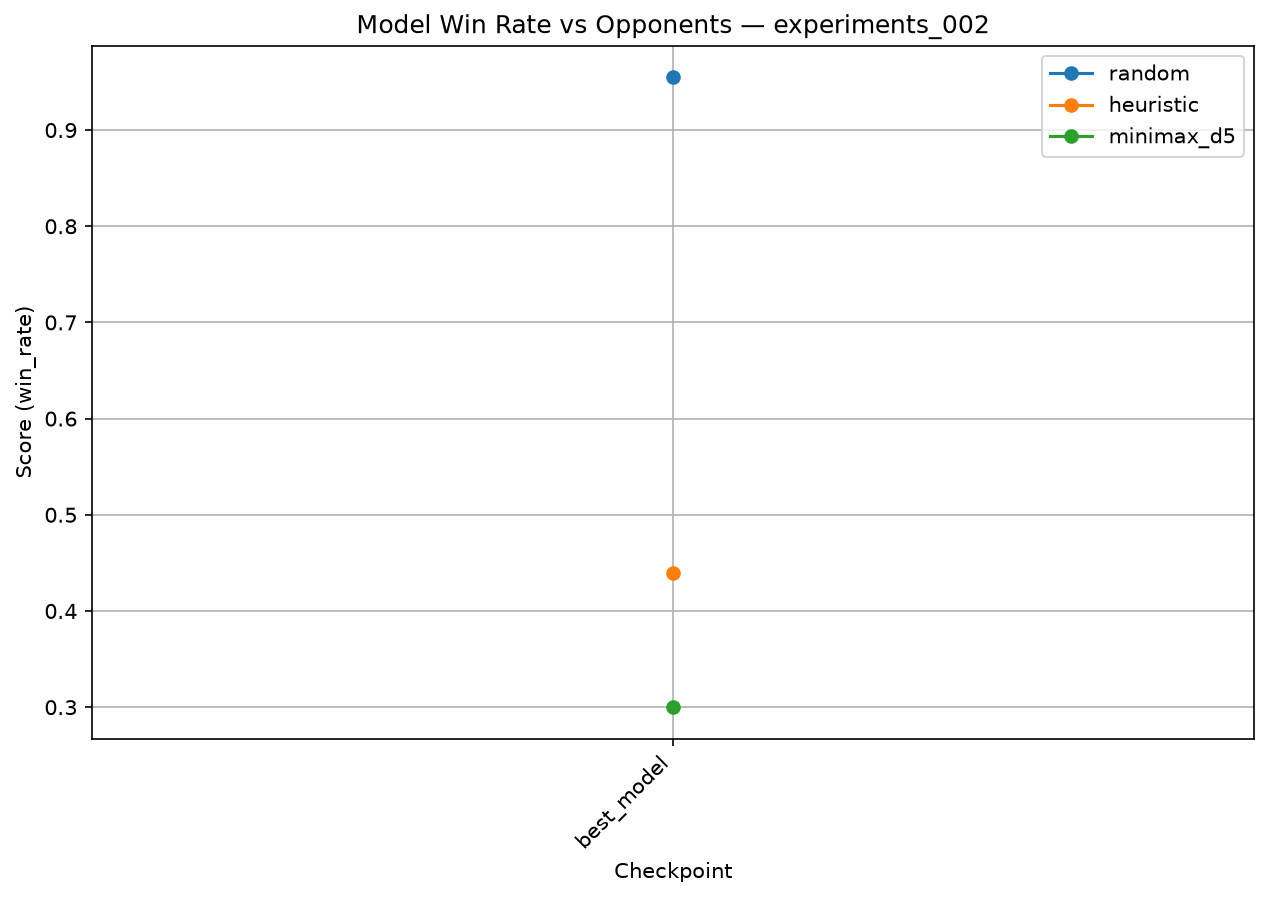
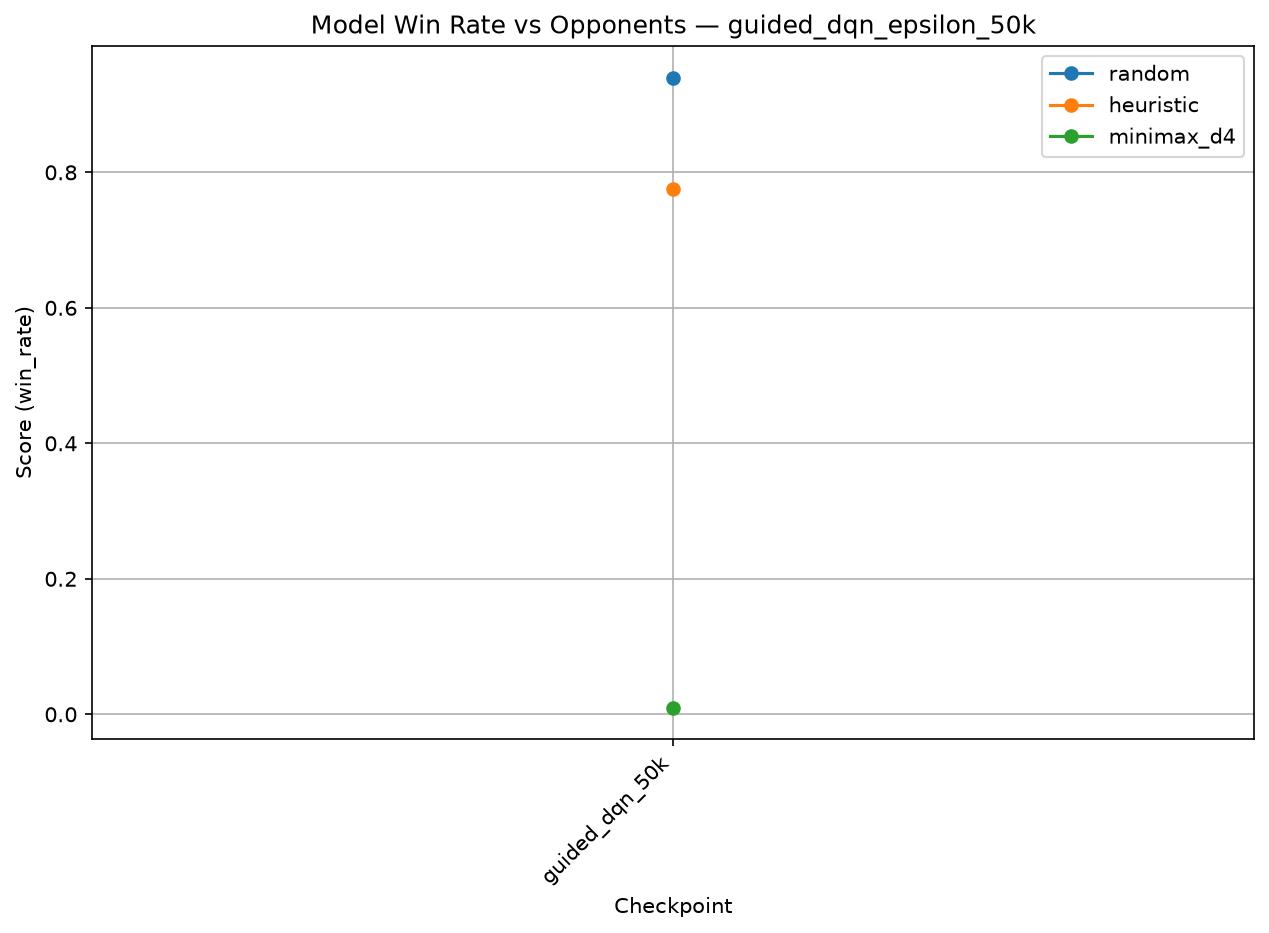
Here's what was changed: train_vs_minimax.py Added max_random_training_plies: int = 4 parameter to train() Inserted the random opening logic at train_vs_minimax.py:311-323 — each episode picks N ∈ 1, max_random_training_plies, then plays 2N random moves (alternating both players) before the real gam

diff --git a/all_in_clean/train_vs_minimax.py b/all_in_clean/train_vs_minimax.py
@@ -198,6 +198,8 @@ def train(
     save_every: int = 500,
     seed: int = 42,
     profile: bool = False,
+    # --- random opening plies (training diversity) ---
+    max_random_training_plies: int = 4,
     # --- diagnostics ---
     record_game_eps: str = "1200,3000",
     n_record_games: int = 3,
@@ -305,6 +307,20 @@ def train(
 
         obs = env.reset()
         done = False
+
+        # Random opening plies: pick N in [1, max_random_training_plies]
+        # and play 2*N random moves (one per player per ply) so both the
+        # agent and the opponent start from a diverse board position.
+        if max_random_training_plies > 0:
+            n_plies = random.randint(1, max_random_training_plies)
+            for _ in range(2 * n_plies):
+                if done:
+                    break
+                legal = obs["legal_actions"]
+                pass_action = obs.get("pass_action", board_size * board_size)
+                non_pass = [a for a in legal if a != pass_action]
+                action = random.choice(non_pass if non_pass else legal)
+                obs, _, done, _ = env.step(action)
 
         if opponent_type == "curriculum":
             cur_opp_type = _choose_opponent_from_curriculum(

diff --git a/all_in_clean/advanced_training.py b/all_in_clean/advanced_training.py
@@ -120,7 +120,7 @@ def _parse_args() -> argparse.Namespace:
     tg.add_argument("--load_model_path",     type=str,   default=None)
     tg.add_argument("--board_size",          type=int,   default=6)
     tg.add_argument("--num_episodes",        type=int,   default=200_000)
-    tg.add_argument("--minimax_max_depth",   type=int,   default=5)
+    tg.add_argument("--minimax_max_depth",   type=int,   default=3)
     tg.add_argument("--minimax_time_limit",  type=float, default=1.0)
     tg.add_argument("--final_minimax_weight", type=float, default=0.60)
     tg.add_argument("--minimax_start_progress", type=float, default=0.05)
@@ -144,6 +144,9 @@ def _parse_args() -> argparse.Namespace:
     tg.add_argument("--no_double_dqn",       action="store_true")
     tg.add_argument("--max_minutes",         type=float, default=1000000)
 
+    tg.add_argument("--max-random-training-plies", type=int, default=4,
+                    help="Max random opening plies per player per episode. "
+                         "0 disables random openings. (default: 4)")
     tg.add_argument("--eval_every",          type=int,   default=1000)
     tg.add_argument("--save_every",          type=int,   default=1000)
     tg.add_argument("--print_every",         type=int,   default=50)
@@ -239,6 +242,7 @@ def main() -> None:
             checkpoint_dir=model_checkpoints_dir,
             best_model_path=best_model_path,
             max_minutes=args.max_minutes,
+            max_random_training_plies=args.max_random_training_plies,
             print_every=args.print_every,
             eval_every=args.eval_every,
             save_every=args.save_every,
@@ -312,6 +316,7 @@ def main() -> None:
             checkpoint_dir=model_checkpoints_dir,
             best_model_path=best_model_path,
             max_minutes=args.max_minutes,
+            max_random_training_plies=args.max_random_training_plies,
             print_every=args.print_every,
             eval_every=args.eval_every,
             save_every=args.save_every,

diff --git a/all_in_clean/adv_evaluate.py b/all_in_clean/adv_evaluate.py
@@ -17,11 +17,11 @@ from evaluation import evaluate_fair
 
 DEFAULT_RESULTS_DIR = os.path.join(
     os.path.dirname(__file__),
-    "Training", "experiments_002", "results",
+    "Training", "experiments_014", "results",
 )
 DEFAULT_MODELS_DIR = os.path.join(
     os.path.dirname(__file__),
-    "Training", "experiments_002", "model_checkpoints",
+    "Training", "experiments_014", "model_checkpoints",
 )
 
 